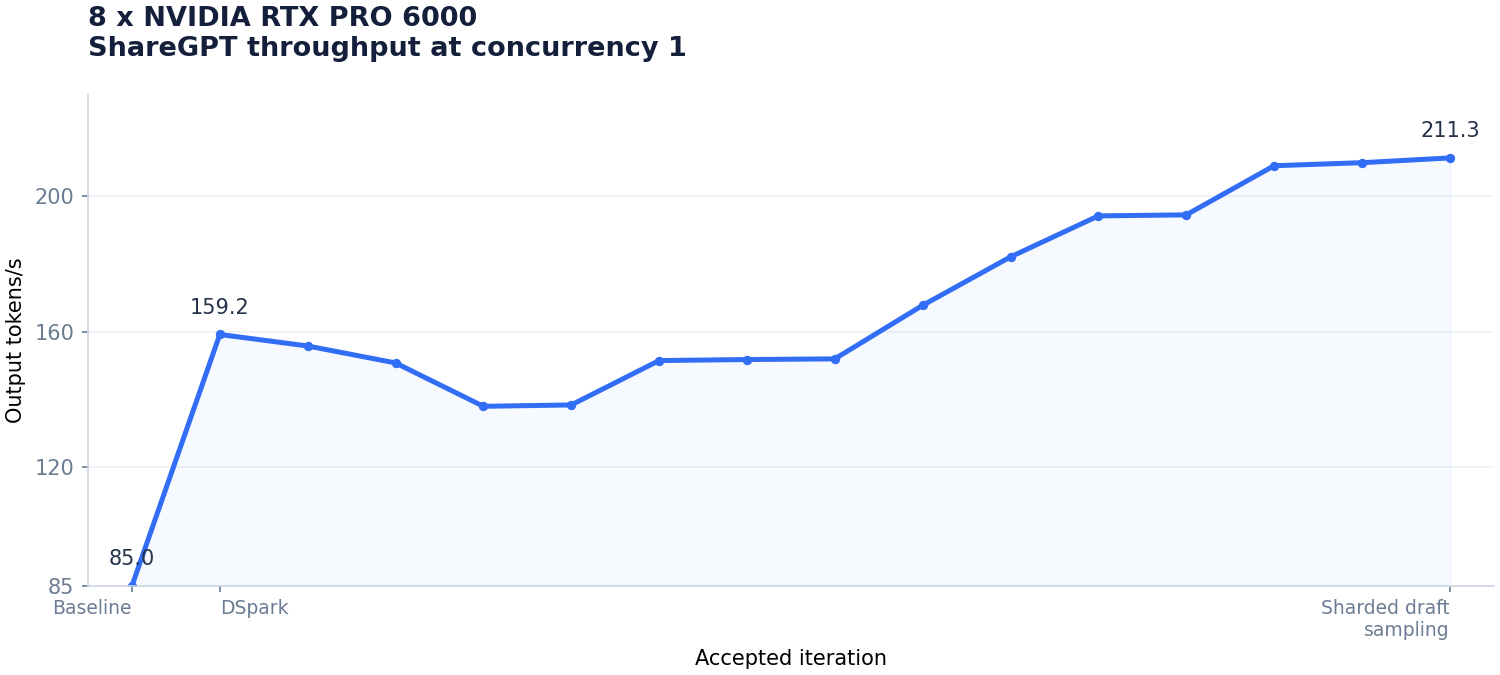
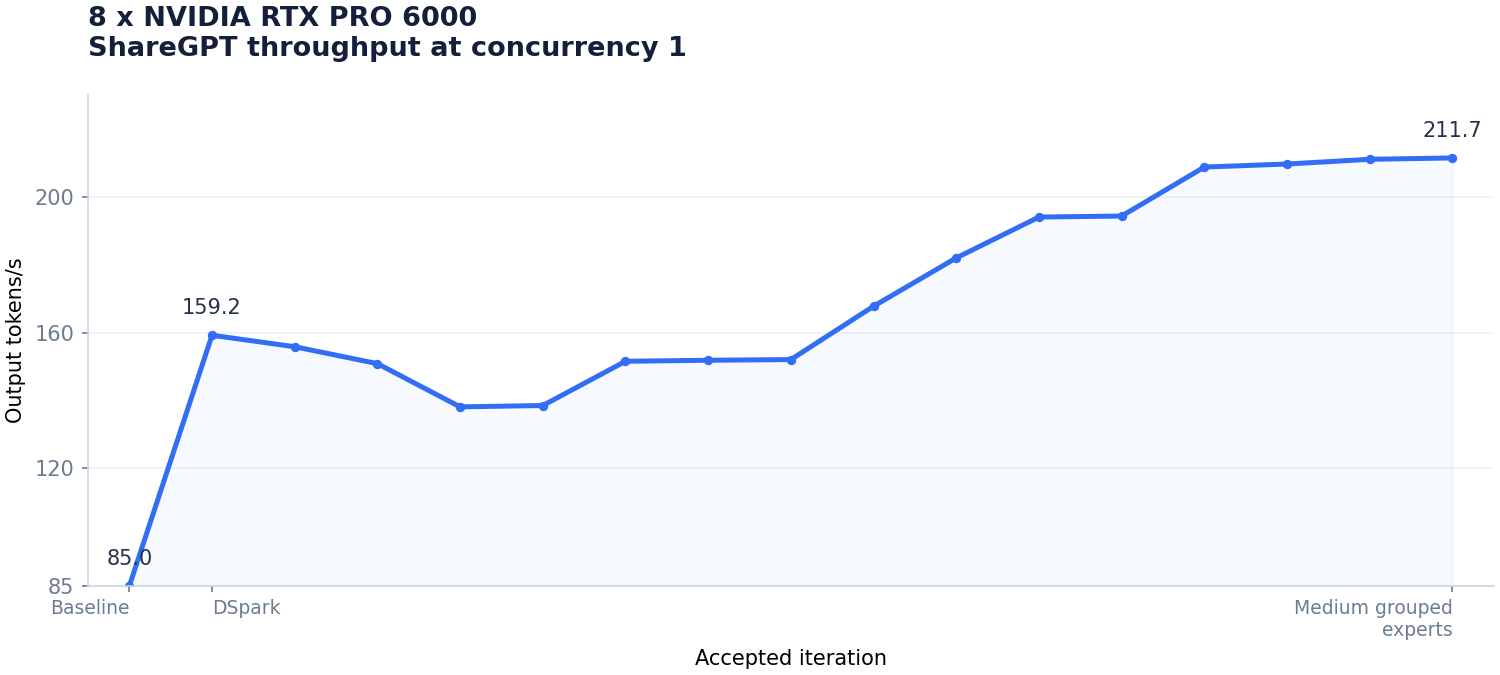
Extend grouped expert kernels

diff --git a/8-nvidia-rtx-pro-6000/CHANGELOG.md b/8-nvidia-rtx-pro-6000/CHANGELOG.md
@@ -4,10 +4,10 @@ The patch is cumulative against `vllm/vllm-openai:v0.32.0`; every working milest
 
 FlashInfer 0.7.1 replaces the bundled 0.7.0.post1 for runtime page-size support, and both the sm120 compatibility patch and `--block-size 64` are required.
 
-## 16. Sharded draft sampling
+## 17. Medium grouped experts
 
-- Compute DSpark's logits and Markov bias per vocabulary shard with diff.patch and enable `use_local_argmax_reduction` so GPUs exchange only maximum scores and token IDs.
--    --speculative-config '{"method":"dspark","num_speculative_tokens":3,"revision":"1bae0e1088993b9b82de08f59de5be5a34e42170","enable_adaptive_verification":true}' \
+- Extend the grouped expert kernels in diff.patch from 16 to 96 tokens to avoid DeepGEMM's 128-row padding for medium batches.
+- Scale routing metadata with the route count and use 8-row GEMM tiles through 48 tokens and 32-row tiles above 48 to keep repeated expert routes efficient.
 
 Requirements, on a fresh vLLM image:
 
@@ -41,14 +41,14 @@ vllm serve deepseek-ai/DeepSeek-V4.1-Flash-1017 \
 
 | Concurrency | Prompts | Output t/s | p95 TTFT (ms) | p95 TPOT (ms) |
 |---:|---:|---:|---:|---:|
-| 1 | 128 | 211.3 | 127.7 | 5.77 |
-| 4 | 128 | 527.1 | 104.0 | 9.50 |
-| 8 | 128 | 730.2 | 208.9 | 12.90 |
-| 16 | 128 | 865.6 | 282.0 | 22.64 |
-| 32 | 128 | 1198.6 | 395.2 | 30.31 |
-| 64 | 128 | 1540.4 | 796.1 | 42.77 |
-| 128 | 256 | 2171.9 | 1574.8 | 71.96 |
-| 256 | 512 | 2921.9 | 2585.6 | 136.24 |
+| 1 | 128 | 211.7 | 127.1 | 5.84 |
+| 4 | 128 | 534.8 | 103.3 | 9.22 |
+| 8 | 128 | 748.9 | 203.4 | 12.36 |
+| 16 | 128 | 1005.0 | 270.9 | 18.53 |
+| 32 | 128 | 1341.9 | 385.5 | 26.98 |
+| 64 | 128 | 1649.4 | 748.4 | 39.14 |
+| 128 | 256 | 2194.5 | 1521.9 | 75.64 |
+| 256 | 512 | 2998.3 | 2817.5 | 136.27 |
 
 ## Accepted progress
 
@@ -69,4 +69,5 @@ vllm serve deepseek-ai/DeepSeek-V4.1-Flash-1017 \
 | 13 | Wider host reductions | 194.5 | [`2a5cf80`](https://github.com/alvarobartt/DeepSeek-V4.1-Flash-RTX-PRO-6000/tree/2a5cf807aa60bccd4f3ced6a49b39ee1c5f25970) |
 | 14 | Grouped expert GEMMs | 209.0 | [`3f93e68`](https://github.com/alvarobartt/DeepSeek-V4.1-Flash-RTX-PRO-6000/tree/3f93e6858c94c6eee506cd5331e23bde65f6e38b) |
 | 15 | Wider grouped experts | 209.9 | [`a2b480a`](https://github.com/alvarobartt/DeepSeek-V4.1-Flash-RTX-PRO-6000/tree/a2b480a3526a3a235f7113b630650516733f658f) |
-| 16 | Sharded draft sampling | 211.3 | This revision |
+| 16 | Sharded draft sampling | 211.3 | [`e36008c`](https://github.com/alvarobartt/DeepSeek-V4.1-Flash-RTX-PRO-6000/tree/e36008c9f6a7cd5c1cb9f55e8082ede7341164e5) |
+| 17 | Medium grouped experts | 211.7 | This revision |

diff --git a/README.md b/README.md
@@ -15,14 +15,14 @@ Validated serving recipes for four and eight GPUs, using the checkpoint's origin
 
 | Concurrency | Baseline t/s [^8gpu-baseline] | Baseline + DSpark t/s | Current t/s |
 |---:|---:|---:|---:|
-| 1 | 85.0 | 159.2 (+87.3%) | **211.3 (+32.7%)** |
-| 4 | 253.2 | 380.4 (+50.2%) | **527.1 (+38.6%)** |
-| 8 | 375.4 | 496.2 (+32.2%) | **730.2 (+47.2%)** |
-| 16 | 553.1 | 650.5 (+17.6%) | **865.6 (+33.1%)** |
-| 32 | 657.4 | 954.1 (+45.1%) | **1198.6 (+25.6%)** |
-| 64 | 866.2 | 1185.0 (+36.8%) | **1540.4 (+30.0%)** |
-| 128 | 1242.4 | 1471.9 (+18.5%) | **2171.9 (+47.6%)** |
-| 256 | 1814.1 | 1726.3 (-4.8%) | **2921.9 (+69.3%)** |
+| 1 | 85.0 | 159.2 (+87.3%) | **211.7 (+33.0%)** |
+| 4 | 253.2 | 380.4 (+50.2%) | **534.8 (+40.6%)** |
+| 8 | 375.4 | 496.2 (+32.2%) | **748.9 (+50.9%)** |
+| 16 | 553.1 | 650.5 (+17.6%) | **1005.0 (+54.5%)** |
+| 32 | 657.4 | 954.1 (+45.1%) | **1341.9 (+40.6%)** |
+| 64 | 866.2 | 1185.0 (+36.8%) | **1649.4 (+39.2%)** |
+| 128 | 1242.4 | 1471.9 (+18.5%) | **2194.5 (+49.1%)** |
+| 256 | 1814.1 | 1726.3 (-4.8%) | **2998.3 (+73.7%)** |
 
 ![Accepted ShareGPT c1 throughput](8-nvidia-rtx-pro-6000/throughput.png)
 
